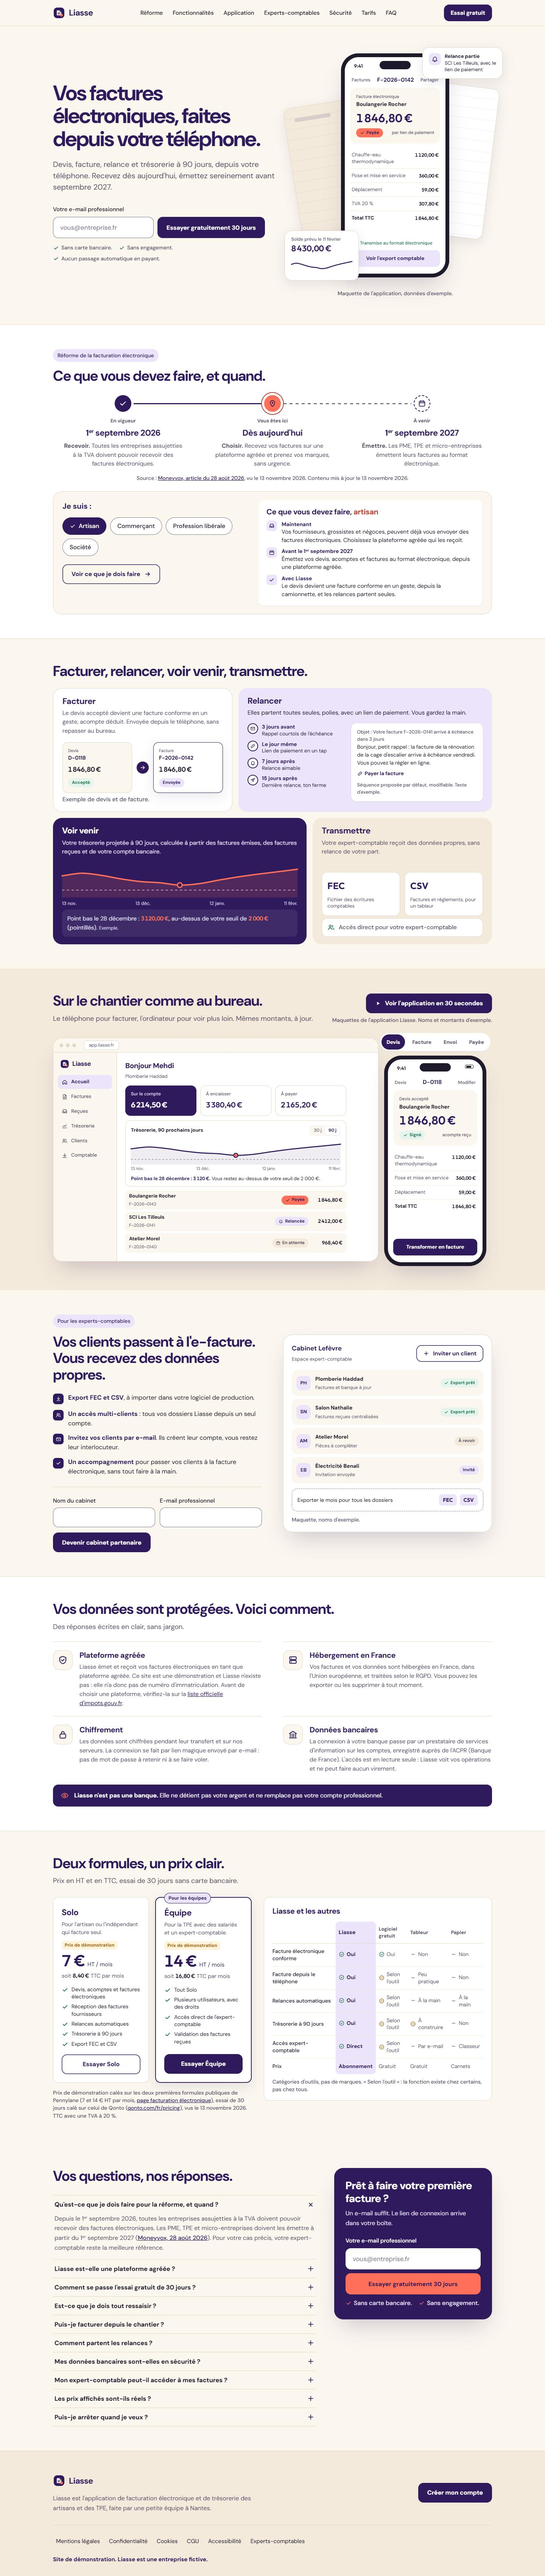
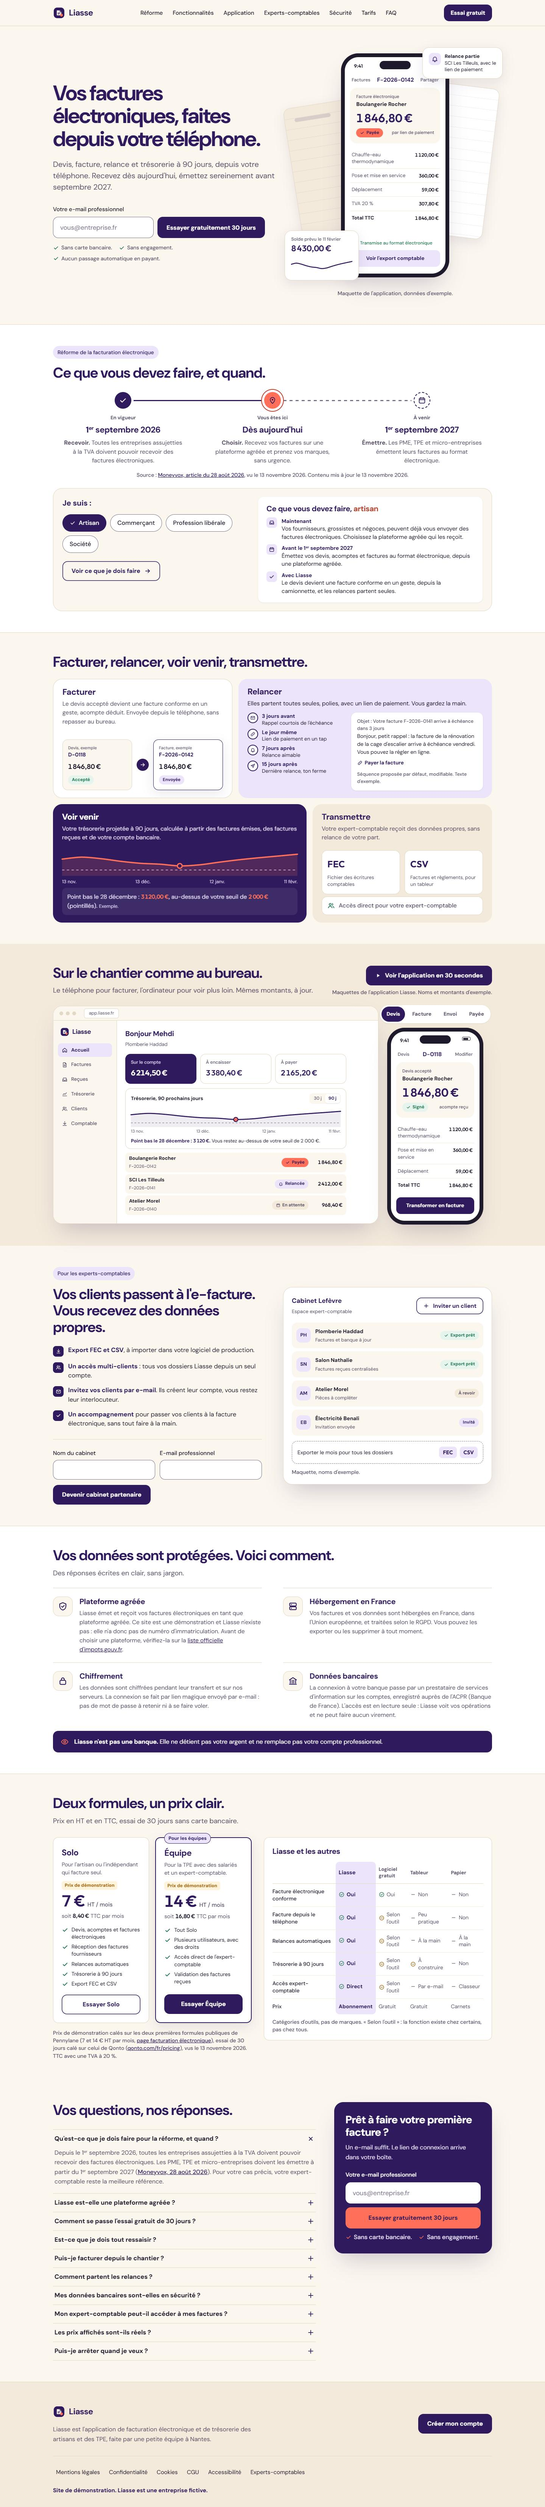
Fit each anchored fintech-saas section in the viewport

diff --git a/vitrine-fintech-saas/index.html b/vitrine-fintech-saas/index.html
@@ -62,11 +62,11 @@
   --ease:cubic-bezier(.2,0,0,1);
   --ease-soft:cubic-bezier(.16,1,.3,1);
   --gutter:24px;
-  --section-y:64px;
+  --section-y:56px;
   --nav-h:68px;
 }
 *,*::before,*::after{box-sizing:border-box}
-html{scroll-behavior:smooth;-webkit-text-size-adjust:100%;scroll-padding-top:var(--nav-h)}
+html{scroll-behavior:smooth;-webkit-text-size-adjust:100%;scroll-padding-top:calc(var(--nav-h) + 1px)}
 body{margin:0;background:var(--cream);color:var(--ink);font-family:var(--font-sans);font-size:17px;line-height:1.6;-webkit-font-smoothing:antialiased;overflow-x:hidden}
 img,svg{display:block;max-width:100%}
 a{color:var(--violet)}
@@ -237,7 +237,7 @@ legend{font-size:20px;font-weight:700;color:var(--violet);padding:0;margin-botto
 .c-facture{grid-column:span 5;background:var(--white);border:1px solid var(--n200)}
 .c-relance{grid-column:span 7;background:var(--violet-soft)}
 .c-relance p{color:var(--ink);max-width:none}
-.relance-body{display:grid;grid-template-columns:minmax(0,.85fr) minmax(0,1.15fr);gap:16px;margin-top:16px;align-items:start}
+.relance-body{display:grid;grid-template-columns:minmax(0,.85fr) minmax(0,1.15fr);gap:16px;margin-top:12px;align-items:start}
 .c-treso{grid-column:span 7;background:var(--violet);color:#fff}
 .c-treso h3{color:#fff}
 .c-treso p{color:#E4DCF5;max-width:60ch}
@@ -252,7 +252,7 @@ legend{font-size:20px;font-weight:700;color:var(--violet);padding:0;margin-botto
 .doc--inv{background:var(--white);box-shadow:var(--shadow-md);border-color:var(--violet)}
 .arrow{width:32px;height:32px;border-radius:50%;background:var(--violet);color:#fff;display:grid;place-items:center;flex:none}
 .arrow svg{width:16px;height:16px}
-.seq{list-style:none;margin:0;padding:0;display:grid;gap:8px}
+.seq{list-style:none;margin:0;padding:0;display:grid;gap:5px}
 .seq li{display:grid;grid-template-columns:28px 1fr;column-gap:10px;font-size:13.5px;line-height:1.35;color:var(--ink)}
 .seq .dot{grid-row:span 2;width:28px;height:28px;border-radius:50%;background:var(--white);border:2px solid var(--violet);display:grid;place-items:center;color:var(--violet)}
 .seq .dot svg{width:14px;height:14px}
@@ -318,7 +318,7 @@ legend{font-size:20px;font-weight:700;color:var(--violet);padding:0;margin-botto
 .row small{color:var(--n700);font-size:11.5px}
 .row .num{font-size:13.5px;text-align:right;min-width:78px}
 .player{position:relative;z-index:2;display:flex;flex-direction:column;align-items:center;gap:12px}
-.player .phone{width:270px;height:556px}
+.player .phone{width:254px;height:520px}
 .steps{display:flex;gap:6px;background:var(--white);border-radius:var(--r-full);padding:4px;box-shadow:var(--shadow-sm)}
 .steps button{border:0;background:transparent;min-height:40px;padding:0 13px;border-radius:var(--r-full);font-size:13.5px;font-weight:700;color:var(--n700);cursor:pointer;position:relative;overflow:hidden}
 .steps button[aria-selected="true"]{background:var(--violet);color:#fff}
@@ -735,11 +735,10 @@ footer{background:var(--cream-deep);padding:56px 0 calc(32px + env(safe-area-ins
         <h3>Facturer</h3>
         <p>Le devis accepté devient une facture conforme en un geste, acompte déduit. Envoyée depuis le téléphone, sans repasser au bureau.</p>
         <div class="flow" aria-hidden="true">
-          <div class="doc"><small>Devis</small><b>D-0118</b><span class="num" data-amount="1846.80">1 846,80 €</span><span class="pill pill--ok">Accepté</span></div>
+          <div class="doc"><small>Devis, exemple</small><b>D-0118</b><span class="num" data-amount="1846.80">1 846,80 €</span><span class="pill pill--ok">Accepté</span></div>
           <span class="arrow"><svg><use href="#i-arrow"/></svg></span>
-          <div class="doc doc--inv"><small>Facture</small><b>F-2026-0142</b><span class="num" data-amount="1846.80">1 846,80 €</span><span class="pill pill--relance">Envoyée</span></div>
+          <div class="doc doc--inv"><small>Facture, exemple</small><b>F-2026-0142</b><span class="num" data-amount="1846.80">1 846,80 €</span><span class="pill pill--relance">Envoyée</span></div>
         </div>
-        <p class="card-foot">Exemple de devis et de facture.</p>
       </article>
 
       <article class="card c-relance">
@@ -765,8 +764,8 @@ footer{background:var(--cream-deep);padding:56px 0 calc(32px + env(safe-area-ins
         <h3>Voir venir</h3>
         <p>Votre trésorerie projetée à 90 jours, calculée à partir des factures émises, des factures reçues et de votre compte bancaire.</p>
         <div class="treso-chart">
-          <svg viewBox="0 0 600 92" role="img" aria-label="Exemple de courbe de trésorerie sur 90 jours, point bas à 3 120 euros fin décembre">
-            <line x1="0" x2="600" y1="73" y2="73" stroke="#D8CEEE" stroke-width="1.5" stroke-dasharray="6 6"/>
+          <svg viewBox="0 0 600 72" role="img" aria-label="Exemple de courbe de trésorerie sur 90 jours, point bas à 3 120 euros fin décembre">
+            <line x1="0" x2="600" y1="57" y2="57" stroke="#D8CEEE" stroke-width="1.5" stroke-dasharray="6 6"/>
             <path data-chart-area fill="rgba(255,111,89,.16)" d=""/>
             <path data-chart-line class="draw" fill="none" stroke="#FF6F59" stroke-width="3.5" stroke-linecap="round" stroke-linejoin="round" d=""/>
             <circle data-low r="6" fill="#2E1A5C" stroke="#FF6F59" stroke-width="3" cx="-20" cy="-20"/>
@@ -824,8 +823,8 @@ footer{background:var(--cream-deep);padding:56px 0 calc(32px + env(safe-area-ins
             </div>
             <div class="chart-box">
               <div class="chart-top"><span>Trésorerie, 90 prochains jours</span><span class="seg" aria-hidden="true"><span>30 j</span><span class="on">90 j</span></span></div>
-              <svg viewBox="0 0 600 76" aria-hidden="true">
-                <line x1="0" x2="600" y1="61" y2="61" stroke="#7A7186" stroke-width="1.2" stroke-dasharray="5 5"/>
+              <svg viewBox="0 0 600 60" aria-hidden="true">
+                <line x1="0" x2="600" y1="48" y2="48" stroke="#7A7186" stroke-width="1.2" stroke-dasharray="5 5"/>
                 <path data-chart-area fill="rgba(46,26,92,.08)" d=""/>
                 <path data-chart-line class="draw" fill="none" stroke="#2E1A5C" stroke-width="3" stroke-linecap="round" stroke-linejoin="round" d=""/>
                 <circle data-low r="6" fill="#FF6F59" stroke="#2E1A5C" stroke-width="2.5" cx="-20" cy="-20"/>
